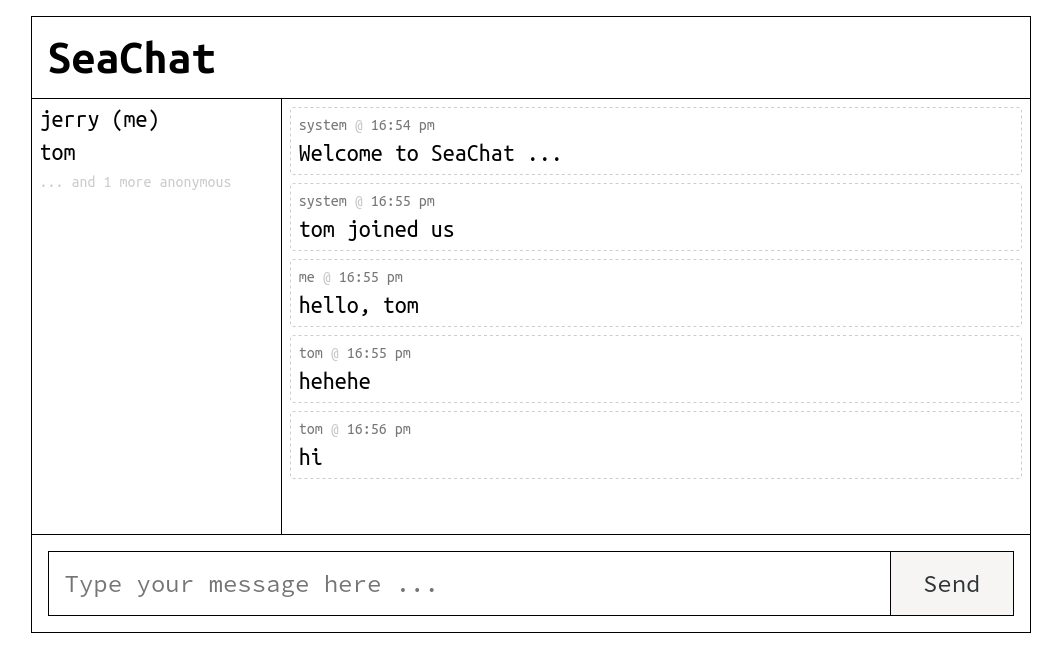
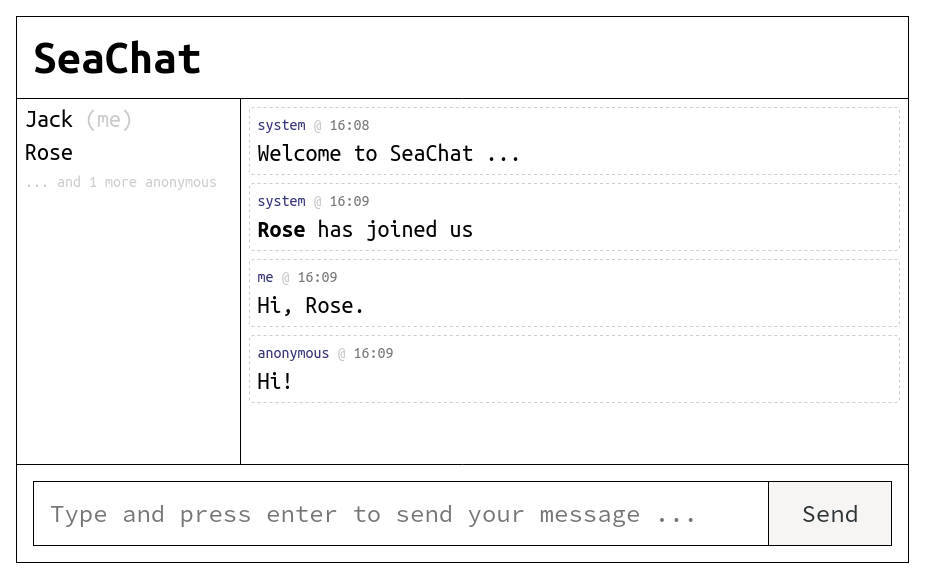
update

diff --git a/public/index.html b/public/index.html
@@ -18,7 +18,8 @@
             <div id="messages"></div>
         </div>
         <footer>
-            <input type="text" id="message" placeholder="Type your message here ..." onkeyup="onKeyUp(event)">
+            <input type="text" id="message" placeholder="Type and press enter to send your message ..."
+                onkeyup="onKeyUp(event)">
             <button onclick="sendMessage()">Send</button>
         </footer>
     </div>
